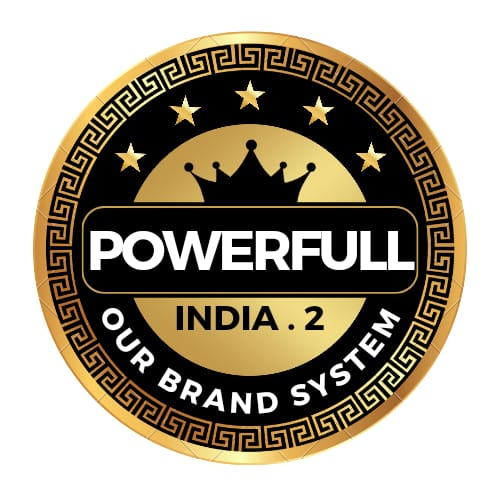
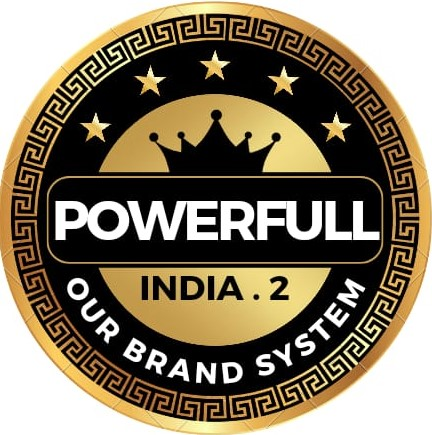
update

diff --git a/src/components/RegisterForm.js b/src/components/RegisterForm.js
@@ -2,8 +2,7 @@ import React, { useEffect, useState } from "react";
 import axios from "axios";
 import { AiFillEye, AiFillEyeInvisible } from "react-icons/ai";
 // import ReCAPTCHA from 'react-google-recaptcha';
-import logo from "../assets/PI2.png";
-import registerImage from "../assets/register.png";
+import logo from "../assets/PI3.jpg";
 import congrats from "../assets/congrats.png";
 import "./LoginSuccess.css";
 import { Link, useLocation, useNavigate } from "react-router-dom";
@@ -142,7 +141,7 @@ const RegisterForm = () => {
                 <form onSubmit={handleSubmit}>
                 <div className="d-flex  justify-content-center align-items-center flex-row gap-3">
                   <div>
-                  <img src={logo} height={"100px"} width={"100px"} alt="Logo" />
+                  <img src={logo} height={"100px"} width={"100px"} alt="Logo" style={{borderRadius:"50%"}}/>
                   </div>
                   <div>
                     <p className="text-center text-amber-100">Welcome </p>

diff --git a/src/components/Dashboard/DashoardNavbar.jsx b/src/components/Dashboard/DashoardNavbar.jsx
@@ -145,7 +145,7 @@ const DashboardNavbar = ({ data }) => {
       alert("LogOut SuccessFully!!!");
       localStorage.removeItem("hasAnimationShownBefore");
       localStorage.removeItem("token");
-      window.location.href = "/login";
+      window.location.href = "/v2/login";
     }
   };
 
